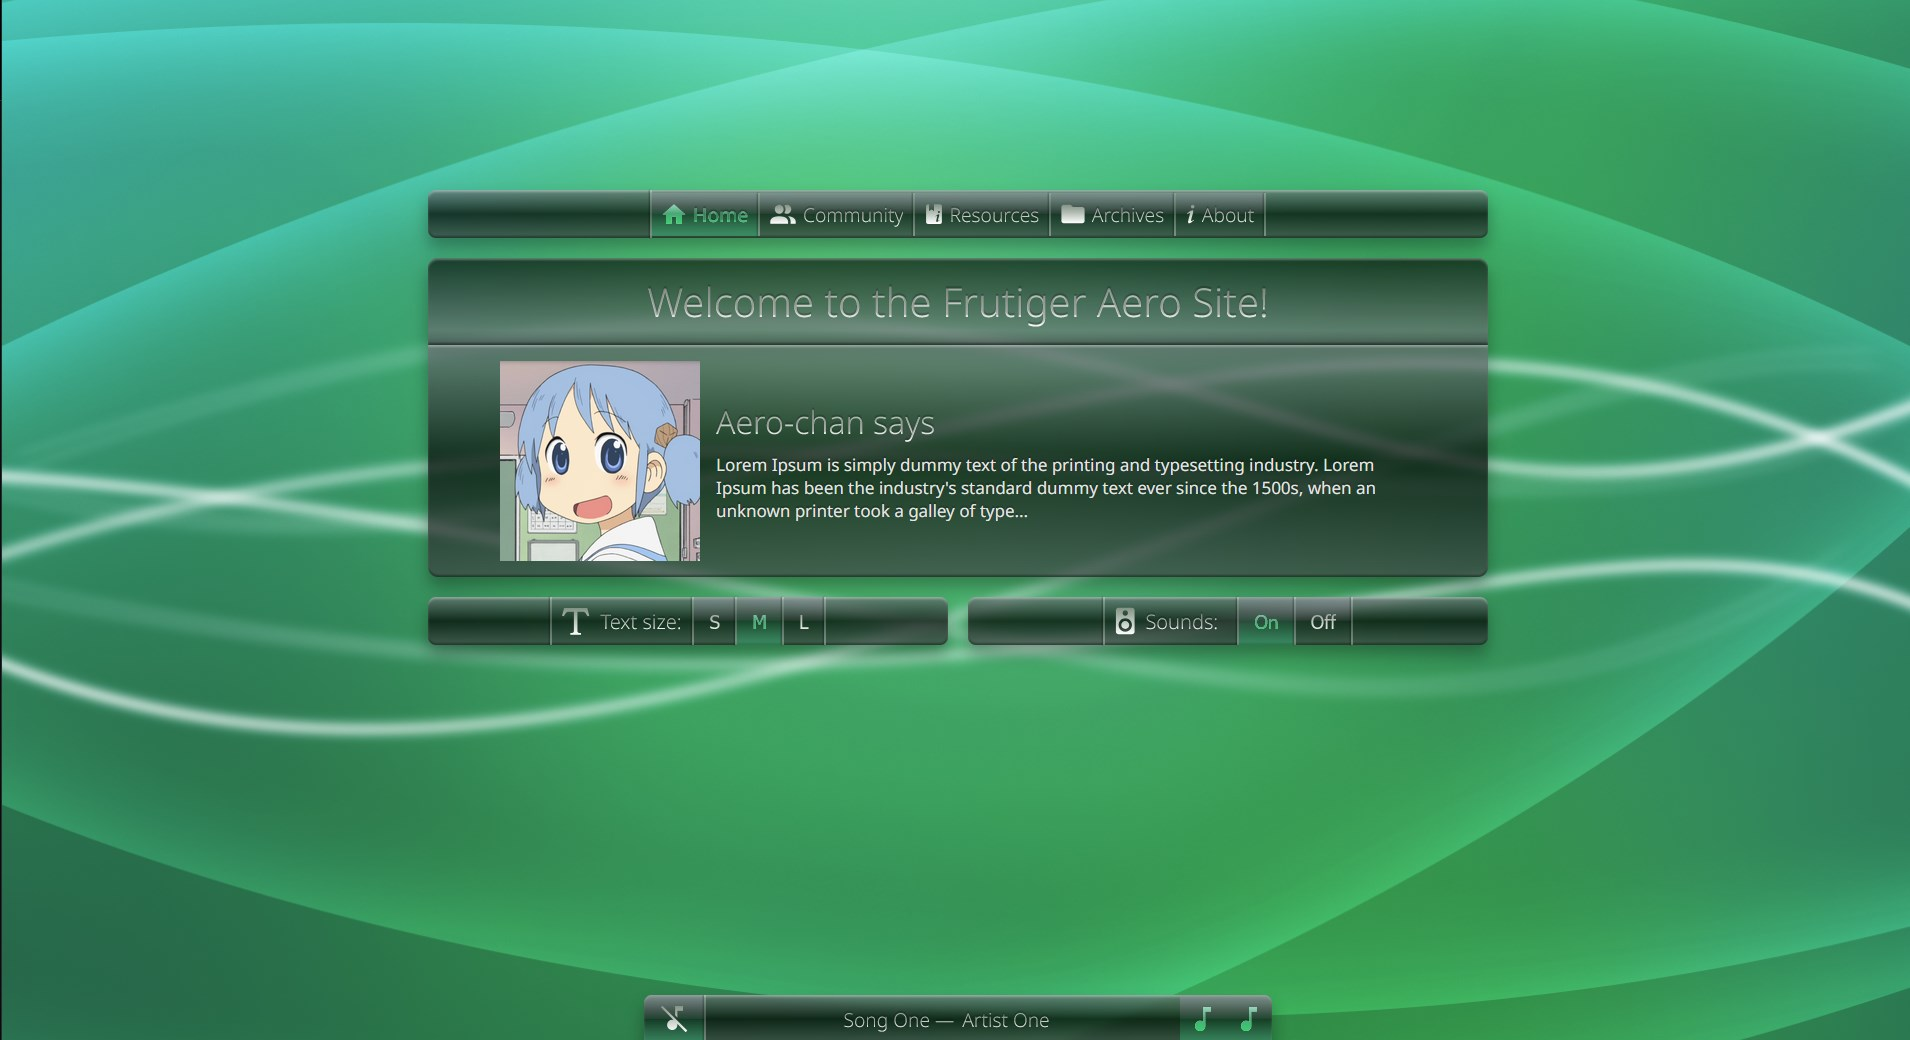
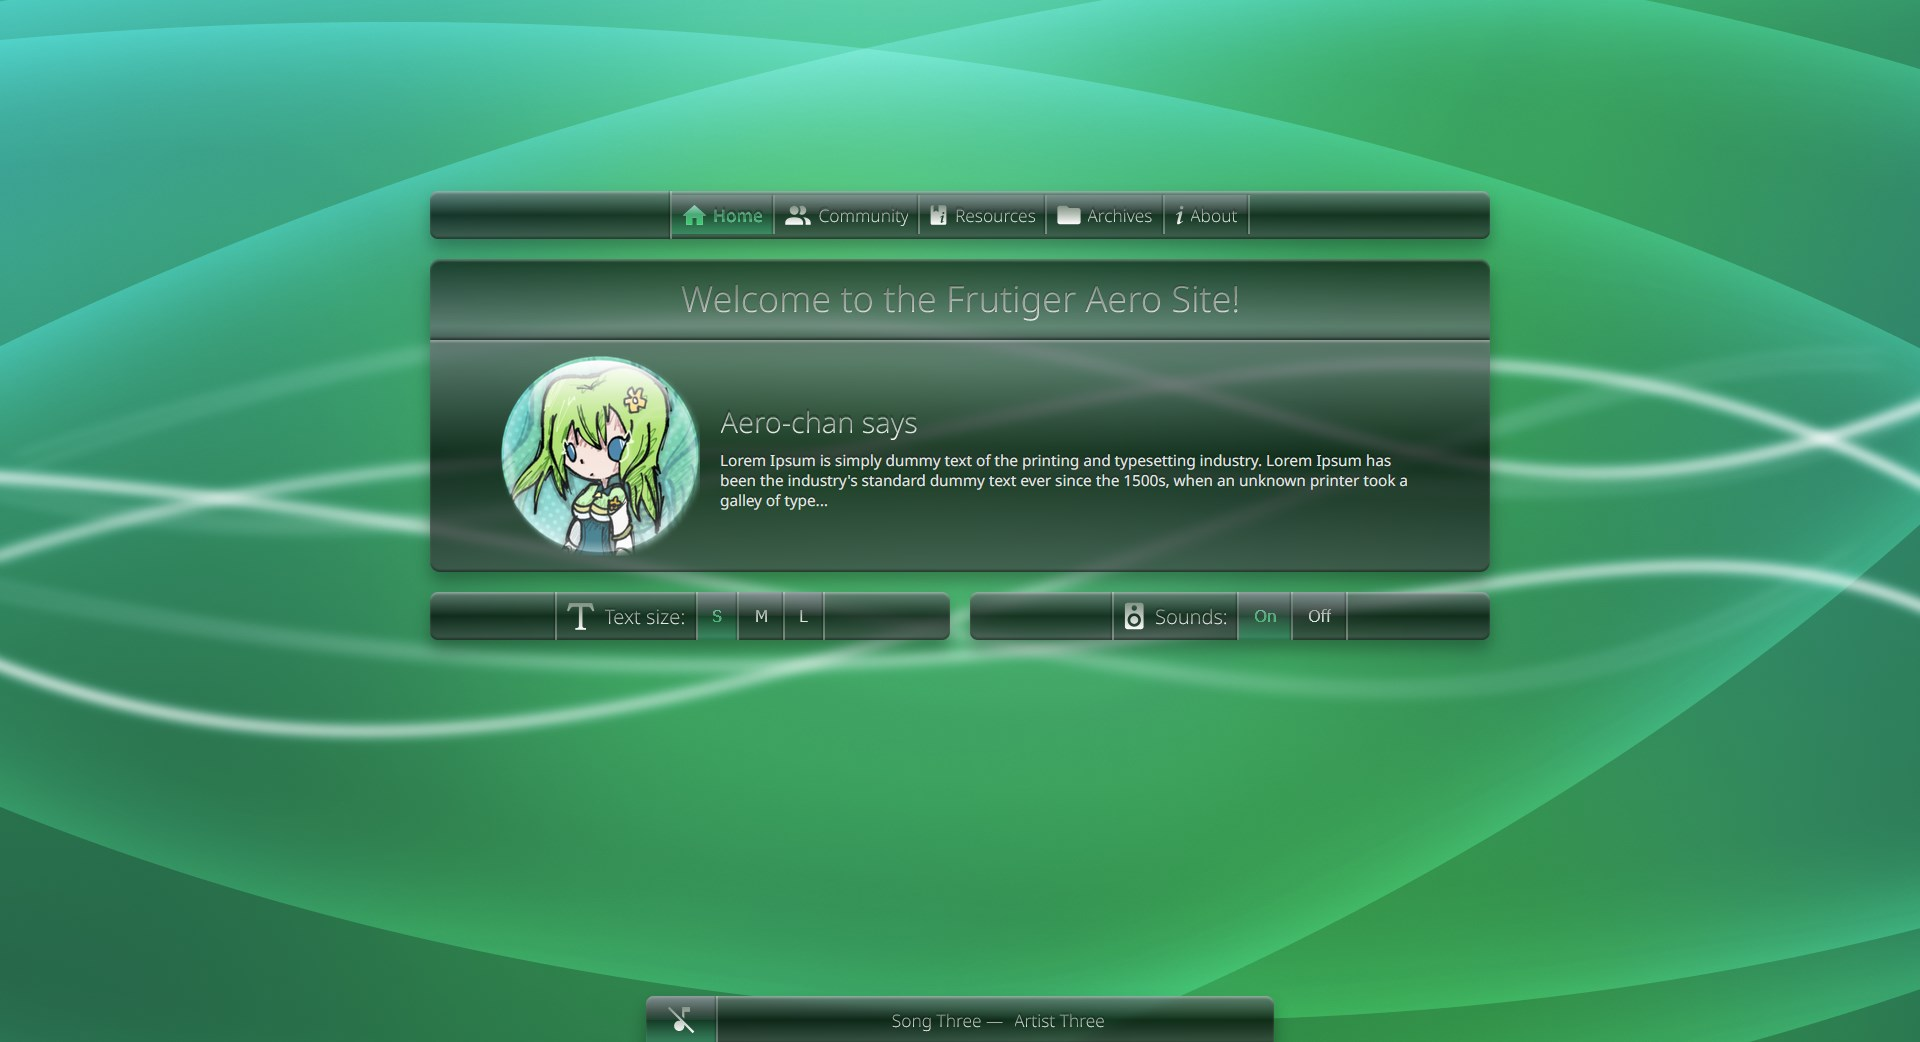
Responsive navbar and music player

diff --git a/javascript/music_player.js b/javascript/music_player.js
@@ -11,6 +11,30 @@ const MUSIC_TOGGLE_IMAGE = document.getElementById("musicToggleImg");
 const SONG_TITLE = document.getElementById("songTitle");
 const SONG_ARTIST = document.getElementById("songArtist");
 
+// Playlist Text for scrolling
+const MUSIC_TEXT_DIV = document.querySelector(".music-text-div");
+const MUSIC_INNER_TEXT_DIV = document.querySelector(".music-inner-text");
+
+// Function to check if text is overflowing and apply scrolling if needed
+function overflowScrolling() {
+  const isOverflowing =
+    MUSIC_INNER_TEXT_DIV.scrollWidth > MUSIC_TEXT_DIV.clientWidth;
+
+  if (isOverflowing) {
+    MUSIC_INNER_TEXT_DIV.classList.add("scrolling");
+  } else {
+    MUSIC_INNER_TEXT_DIV.classList.remove("scrolling");
+  }
+}
+
+// Check overflow when the page loads
+window.addEventListener("load", () => {
+  setTimeout(overflowScrolling, 0); // Ensure layout is ready before measuring
+});
+
+// Check overflow on window resize
+window.addEventListener("resize", overflowScrolling);
+
 // Initial states for sound and music
 let sound_on = false;
 let music_playing = false;
@@ -80,10 +104,12 @@ window.addEventListener("load", () => {
     setActiveSound(SOUND_ON_BUTTON, SOUND_OFF_BUTTON, true);
     MUSIC_BAR.style.display = "flex";
     isMusicBarVisible = true;
+    overflowScrolling();
   } else if (savedSound === "off") {
     setActiveSound(SOUND_OFF_BUTTON, SOUND_ON_BUTTON, false);
     MUSIC_BAR.style.display = "none";
     isMusicBarVisible = false;
+    overflowScrolling();
   }
 });
 
@@ -125,6 +151,7 @@ function nextSong() {
   currentSongIndex = (currentSongIndex + 1) % playlist.length;
   loadSong(currentSongIndex);
   if (music_playing) background_music.play();
+  overflowScrolling();
 }
 
 // Go to the previous song in the playlist
@@ -132,16 +159,18 @@ function prevSong() {
   currentSongIndex = (currentSongIndex - 1 + playlist.length) % playlist.length;
   loadSong(currentSongIndex);
   if (music_playing) background_music.play();
+  overflowScrolling();
 }
 
 // Auto-play the next song when the current one ends
-background_music.addEventListener("ended", nextSong);
+background_music.addEventListener("ended", nextSong, overflowScrolling);
 
 // Turn off music and update UI
 function musicOff() {
   MUSIC_TOGGLE_IMAGE.src = "images/music_off.svg";
   music_playing = false;
   background_music.pause();
+  overflowScrolling();
   setCookie("music", "off");
 }
 
@@ -150,6 +179,7 @@ function musicOn() {
   MUSIC_TOGGLE_IMAGE.src = "images/music_on.svg";
   music_playing = true;
   background_music.play();
+  overflowScrolling();
   setCookie("music", "on");
 }
 
@@ -178,7 +208,3 @@ window.addEventListener("load", () => {
     musicOff();
   }
 });
-
-// Add event listeners for next/previous buttons
-NEXT_BUTTON.addEventListener("click", nextSong);
-PREV_BUTTON.addEventListener("click", prevSong);

diff --git a/css/index.css b/css/index.css
@@ -75,7 +75,7 @@
 /* Mascot Image */
 #introductionSection img {
   width: 200px;
-  margin-right: 16px;
+  margin-right: 20px;
 }
 
 /* Sub-heading Styles */
@@ -135,6 +135,7 @@
   align-items: center;
   height: 48px;
   width: 100%;
+  overflow-x: auto;
 }
 
 /* Settings Icons (Images) */
@@ -155,13 +156,13 @@
   -webkit-text-fill-color: transparent;
   background-clip: text;
   text-shadow: 0px -2px 1px rgba(0, 0, 0, 0.25);
-  width: 82px;
   height: 20px;
   font-weight: 300;
   font-size: 20px;
   line-height: 100%;
   margin: 0px 10px;
   cursor: default;
+  text-wrap: nowrap;
 }
 
 /* Button Styles for All Buttons */
@@ -249,7 +250,7 @@
 /*     Responsiveness     */
 /* ---------------------- */
 
-/* Size 3: For smaller screens, 750px */
+/* Size 4: For smaller screens, 750px */
 @media (max-width: 750px) {
   #introductionSection h1 {
     font-size: 2em;
@@ -263,7 +264,7 @@
   }
 }
 
-/* Size 2: For smaller screens, 580px */
+/* Size 3: For smaller screens, 580px */
 @media (max-width: 580px) {
   #introductionSection article {
     flex-direction: column;
@@ -273,14 +274,44 @@
     font-size: 1.8em;
   }
 
+  #introductionSection img {
+    width: 130px;
+    margin-right: 0px;
+  }
+
   #introductionSection h2 {
     text-align: center;
   }
 }
 
-/* Size 1: For very small screens, 520px */
+/* Size 2: For very small screens, 520px */
 @media (max-width: 520px) {
   #introductionSection h1 {
     font-size: 1.5em;
+  }
+}
+
+@media (max-width: 330px) {
+  .settings-side-vertical-separators {
+    display: none;
+  }
+  .settings-bar-divs img {
+    display: none;
+  }
+}
+
+/* Size 1: Smallest screens, 240px */
+@media (max-width: 240px) {
+  #introductionSection img {
+    width: 100%;
+  }
+
+  .settings-titles {
+    margin: 0px 5px 0px 0px;
+  }
+
+  .settings-buttons-inactive,
+  .settings-buttons-active {
+    padding: 8px 8px;
   }
 }

diff --git a/community.html b/community.html
@@ -130,7 +130,9 @@
       <!-- Settings Bar for Text Size and Sound Controls -->
       <nav id="settingsBar" aria-label="Settings Bar">
         <div class="settings-bar-divs" aria-label="Settings: Text Size">
-          <div class="vertical-separators"></div>
+          <div
+            class="settings-side-vertical-separators vertical-separators"
+          ></div>
 
           <!-- Text Size Controls -->
           <img src="images/home/text_size.svg" alt="" />
@@ -169,7 +171,9 @@
         </div>
 
         <div class="settings-bar-divs" aria-label="Settings: Sound">
-          <div class="vertical-separators"></div>
+          <div
+            class="settings-side-vertical-separators vertical-separators"
+          ></div>
 
           <!-- Sound Controls -->
           <img src="images/home/sounds.svg" alt="" />
@@ -217,27 +221,29 @@
 
       <!-- Song Information Display -->
       <div class="music-text-div">
-        <span id="songTitle">Song title — </span>
-        <span id="songArtist">Song artist</span>
+        <div class="music-inner-text">
+          <span id="songTitle">Song title — </span>
+          <span id="songArtist">Song artist</span>
+        </div>
       </div>
 
       <!-- Previous Song Button -->
-      <button
+      <!-- <button
         class="settings-buttons-active"
         id="prevButton"
         aria-label="Previous Song"
       >
         <img src="images/music_on.svg" alt="" />
-      </button>
+      </button> -->
 
       <!-- Next Song Button -->
-      <button
+      <!-- <button
         class="settings-buttons-active"
         id="nextButton"
         aria-label="Next Song"
       >
         <img src="images/music_on.svg" alt="" />
-      </button>
+      </button> -->
     </div>
 
     <!-- External Javascript Files for Music Player and Text Size -->

diff --git a/index.html b/index.html
@@ -130,7 +130,9 @@
       <!-- Settings Bar for Text Size and Sound Controls -->
       <nav id="settingsBar" aria-label="Settings Bar">
         <div class="settings-bar-divs" aria-label="Settings: Text Size">
-          <div class="vertical-separators"></div>
+          <div
+            class="settings-side-vertical-separators vertical-separators"
+          ></div>
 
           <!-- Text Size Controls -->
           <img src="images/home/text_size.svg" alt="" />
@@ -169,7 +171,9 @@
         </div>
 
         <div class="settings-bar-divs" aria-label="Settings: Sound">
-          <div class="vertical-separators"></div>
+          <div
+            class="settings-side-vertical-separators vertical-separators"
+          ></div>
 
           <!-- Sound Controls -->
           <img src="images/home/sounds.svg" alt="" />
@@ -217,27 +221,29 @@
 
       <!-- Song Information Display -->
       <div class="music-text-div">
-        <span id="songTitle">Song title — </span>
-        <span id="songArtist">Song artist</span>
+        <div class="music-inner-text">
+          <span id="songTitle">Song title — </span>
+          <span id="songArtist">Song artist</span>
+        </div>
       </div>
 
       <!-- Previous Song Button -->
-      <button
+      <!-- <button
         class="settings-buttons-active"
         id="prevButton"
         aria-label="Previous Song"
       >
         <img src="images/music_on.svg" alt="" />
-      </button>
+      </button> -->
 
       <!-- Next Song Button -->
-      <button
+      <!-- <button
         class="settings-buttons-active"
         id="nextButton"
         aria-label="Next Song"
       >
         <img src="images/music_on.svg" alt="" />
-      </button>
+      </button> -->
     </div>
 
     <!-- External Javascript Files for Music Player and Text Size -->

diff --git a/css/global.css b/css/global.css
@@ -130,7 +130,7 @@ button {
   align-items: center;
   padding: 8px 10px;
   gap: 7px;
-  height: 100%;
+  height: 48px;
   font-size: 1.2em;
   font-weight: 300;
   text-shadow: 0px -2px 1px rgba(0, 0, 0, 0.25);
@@ -237,6 +237,7 @@ button {
     inset 0px -2px 1px rgba(0, 0, 0, 0.4);
   backdrop-filter: blur(4px);
   border-radius: 8px 8px 0px 0px;
+  padding-right: 3px;
   z-index: 3;
   overflow: hidden;
 }
@@ -248,14 +249,15 @@ button {
   width: 70px;
 }
 
-/* Text inside music bar */
 .music-text-div {
-  display: flex;
-  width: 100%;
-  justify-content: center;
+  margin: auto;
+  text-align: center;
+  text-wrap: nowrap;
+  overflow-x: hidden;
 }
 
-#musicBar span {
+.music-text-div span {
+  display: inline-block;
   font-weight: 300;
   font-size: 1.2em;
   background: linear-gradient(
@@ -268,6 +270,31 @@ button {
   background-clip: text;
   text-shadow: 0px -2px 1px rgba(0, 0, 0, 0.25);
   margin-left: 8px;
+  text-wrap: nowrap;
+}
+
+/* Inner text div that may overflow */
+.music-inner-text {
+  display: inline-block;
+  white-space: nowrap;
+  transition: transform 0.3s ease;
+}
+
+/* Scrolling animation class */
+.scrolling {
+  animation: scroll-pingpong 7s linear infinite;
+}
+
+@keyframes scroll-pingpong {
+  0% {
+    transform: translateX(0%);
+  }
+  50% {
+    transform: translateX(-100%);
+  }
+  100% {
+    transform: translateX(0%);
+  }
 }
 
 /* ---------------------- */
@@ -281,7 +308,6 @@ button {
     width: auto;
   }
 
-  /* Navbar for mobile */
   #mainNav {
     border-radius: 0px;
     position: sticky;
@@ -324,8 +350,15 @@ button {
   }
 
   #musicBar {
-    width: 99.1%;
-    left: 6px;
+    width: 100%;
+    left: 0px;
+  }
+}
+
+/* Small mobile */
+@media (max-width: 240px) {
+  .main-nav-home {
+    padding: 11px 5px;
   }
 }
 
